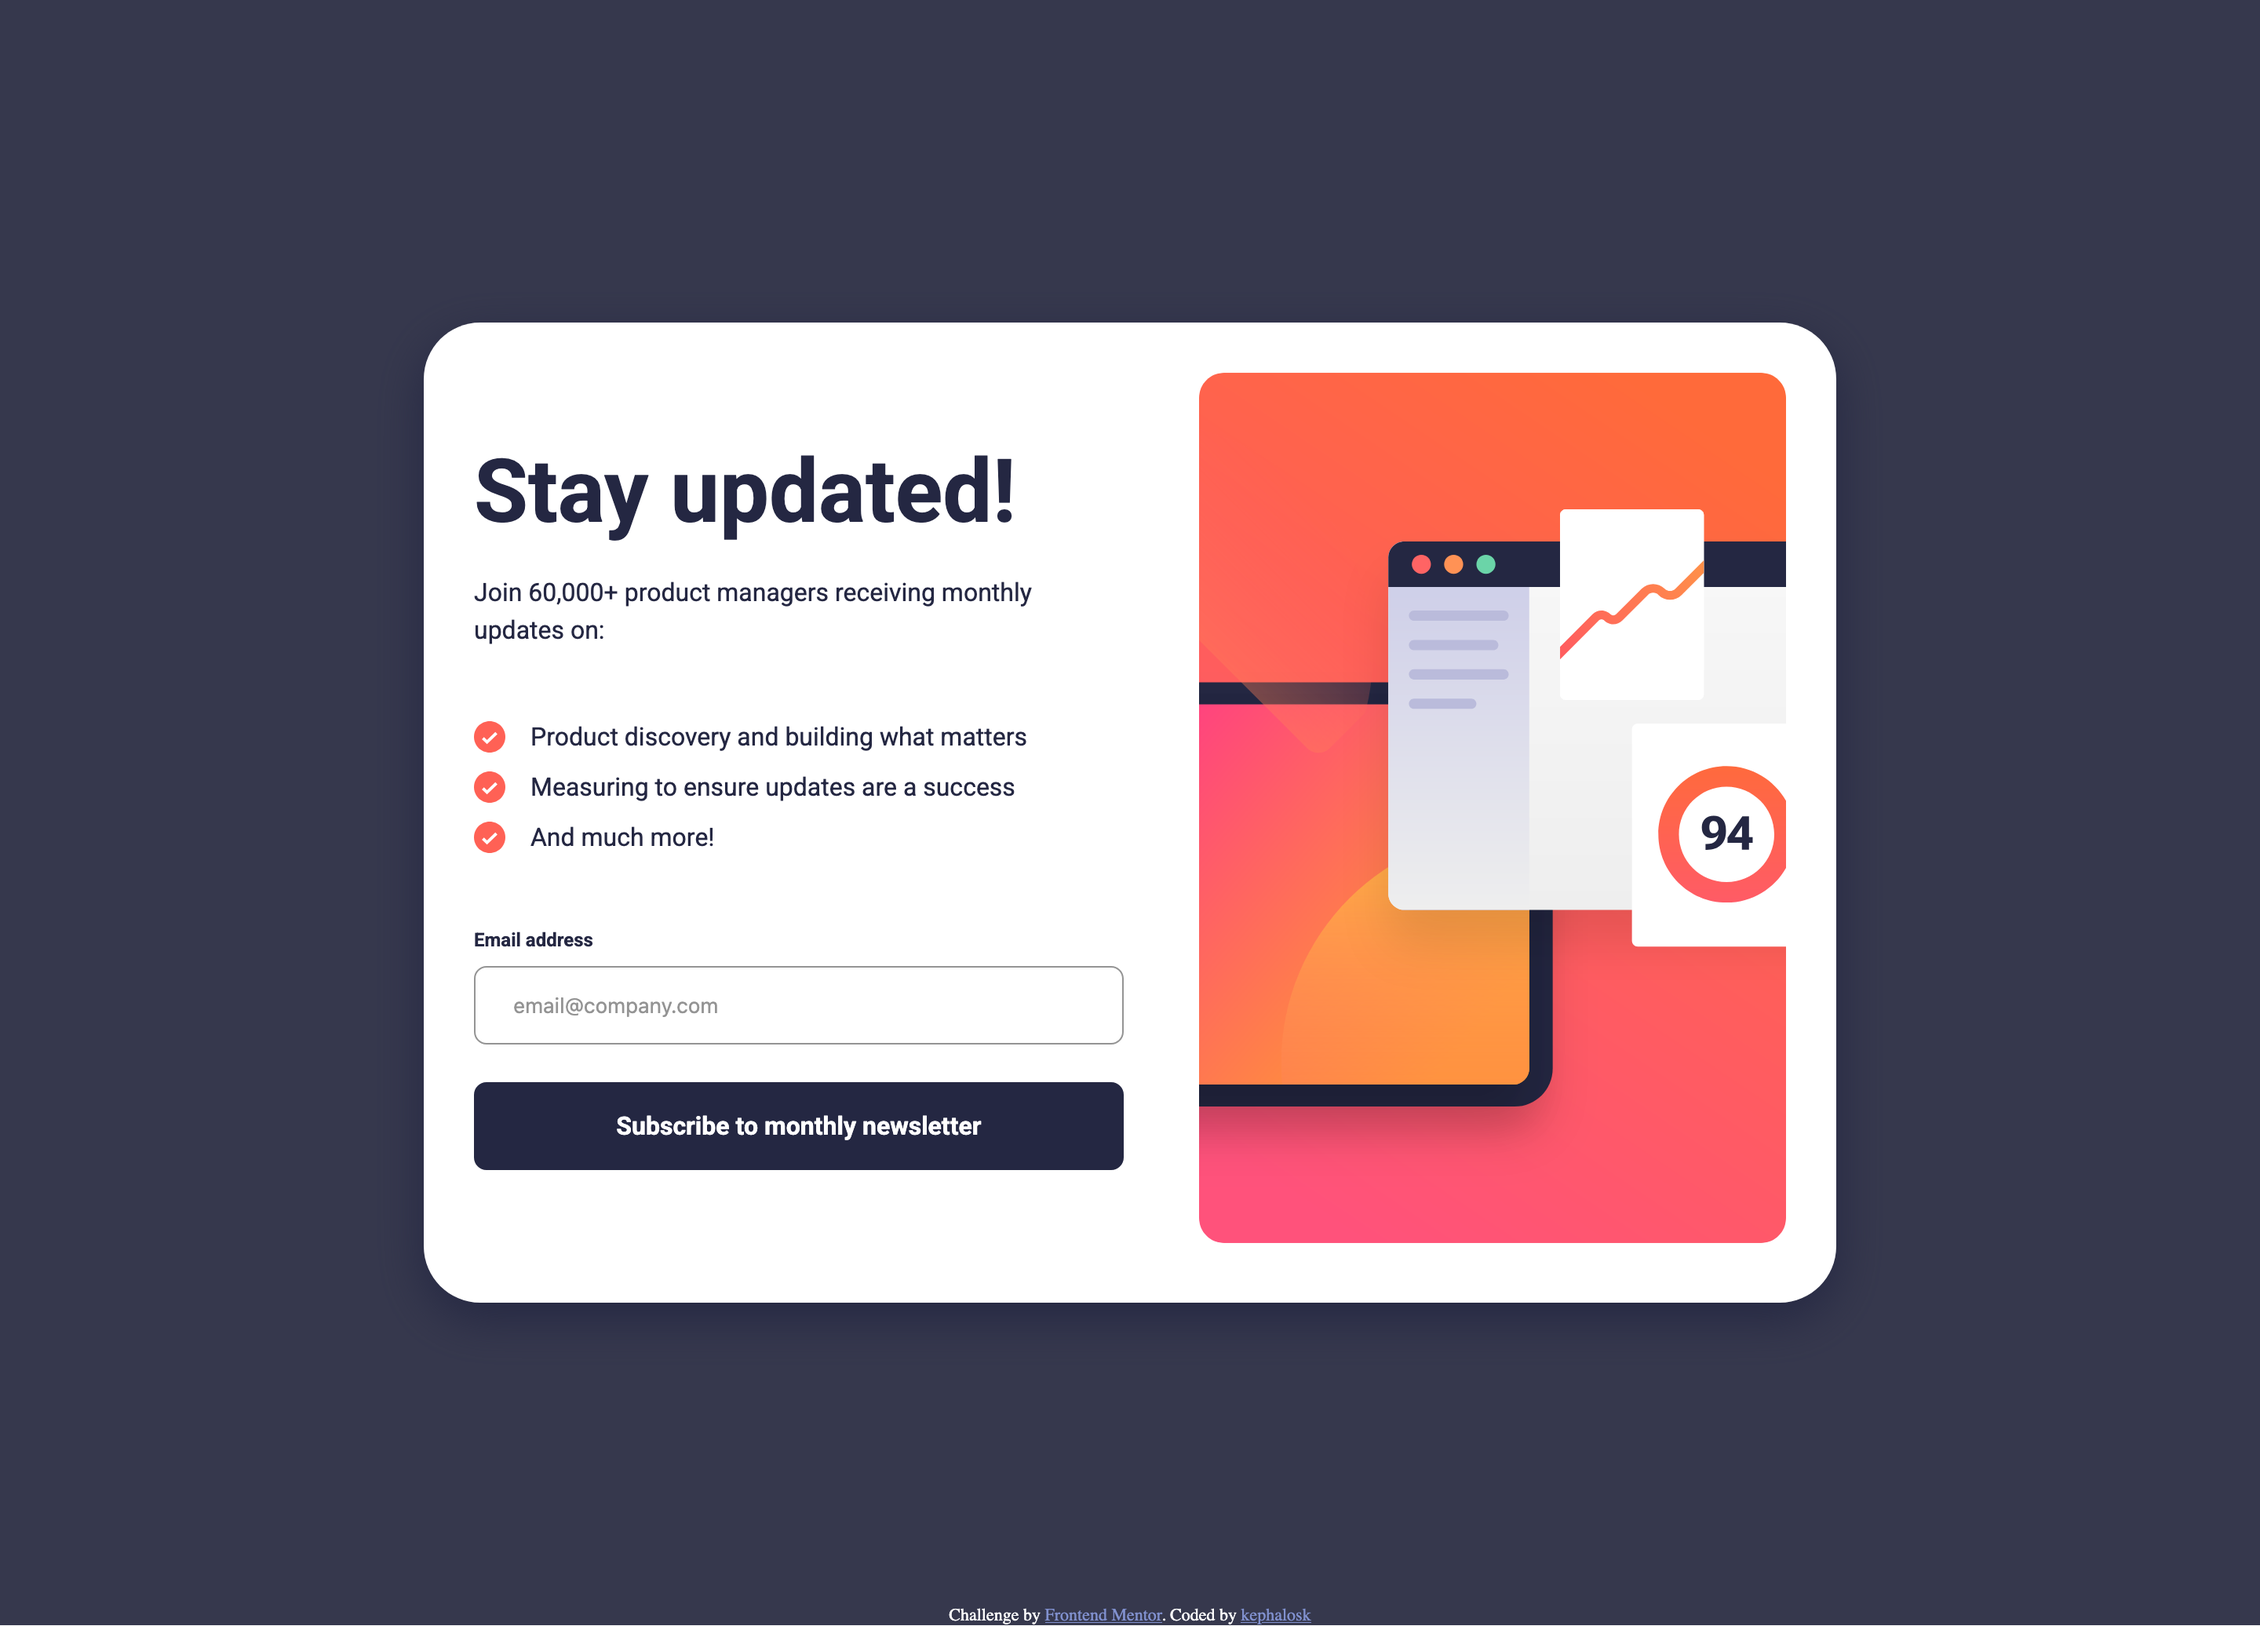
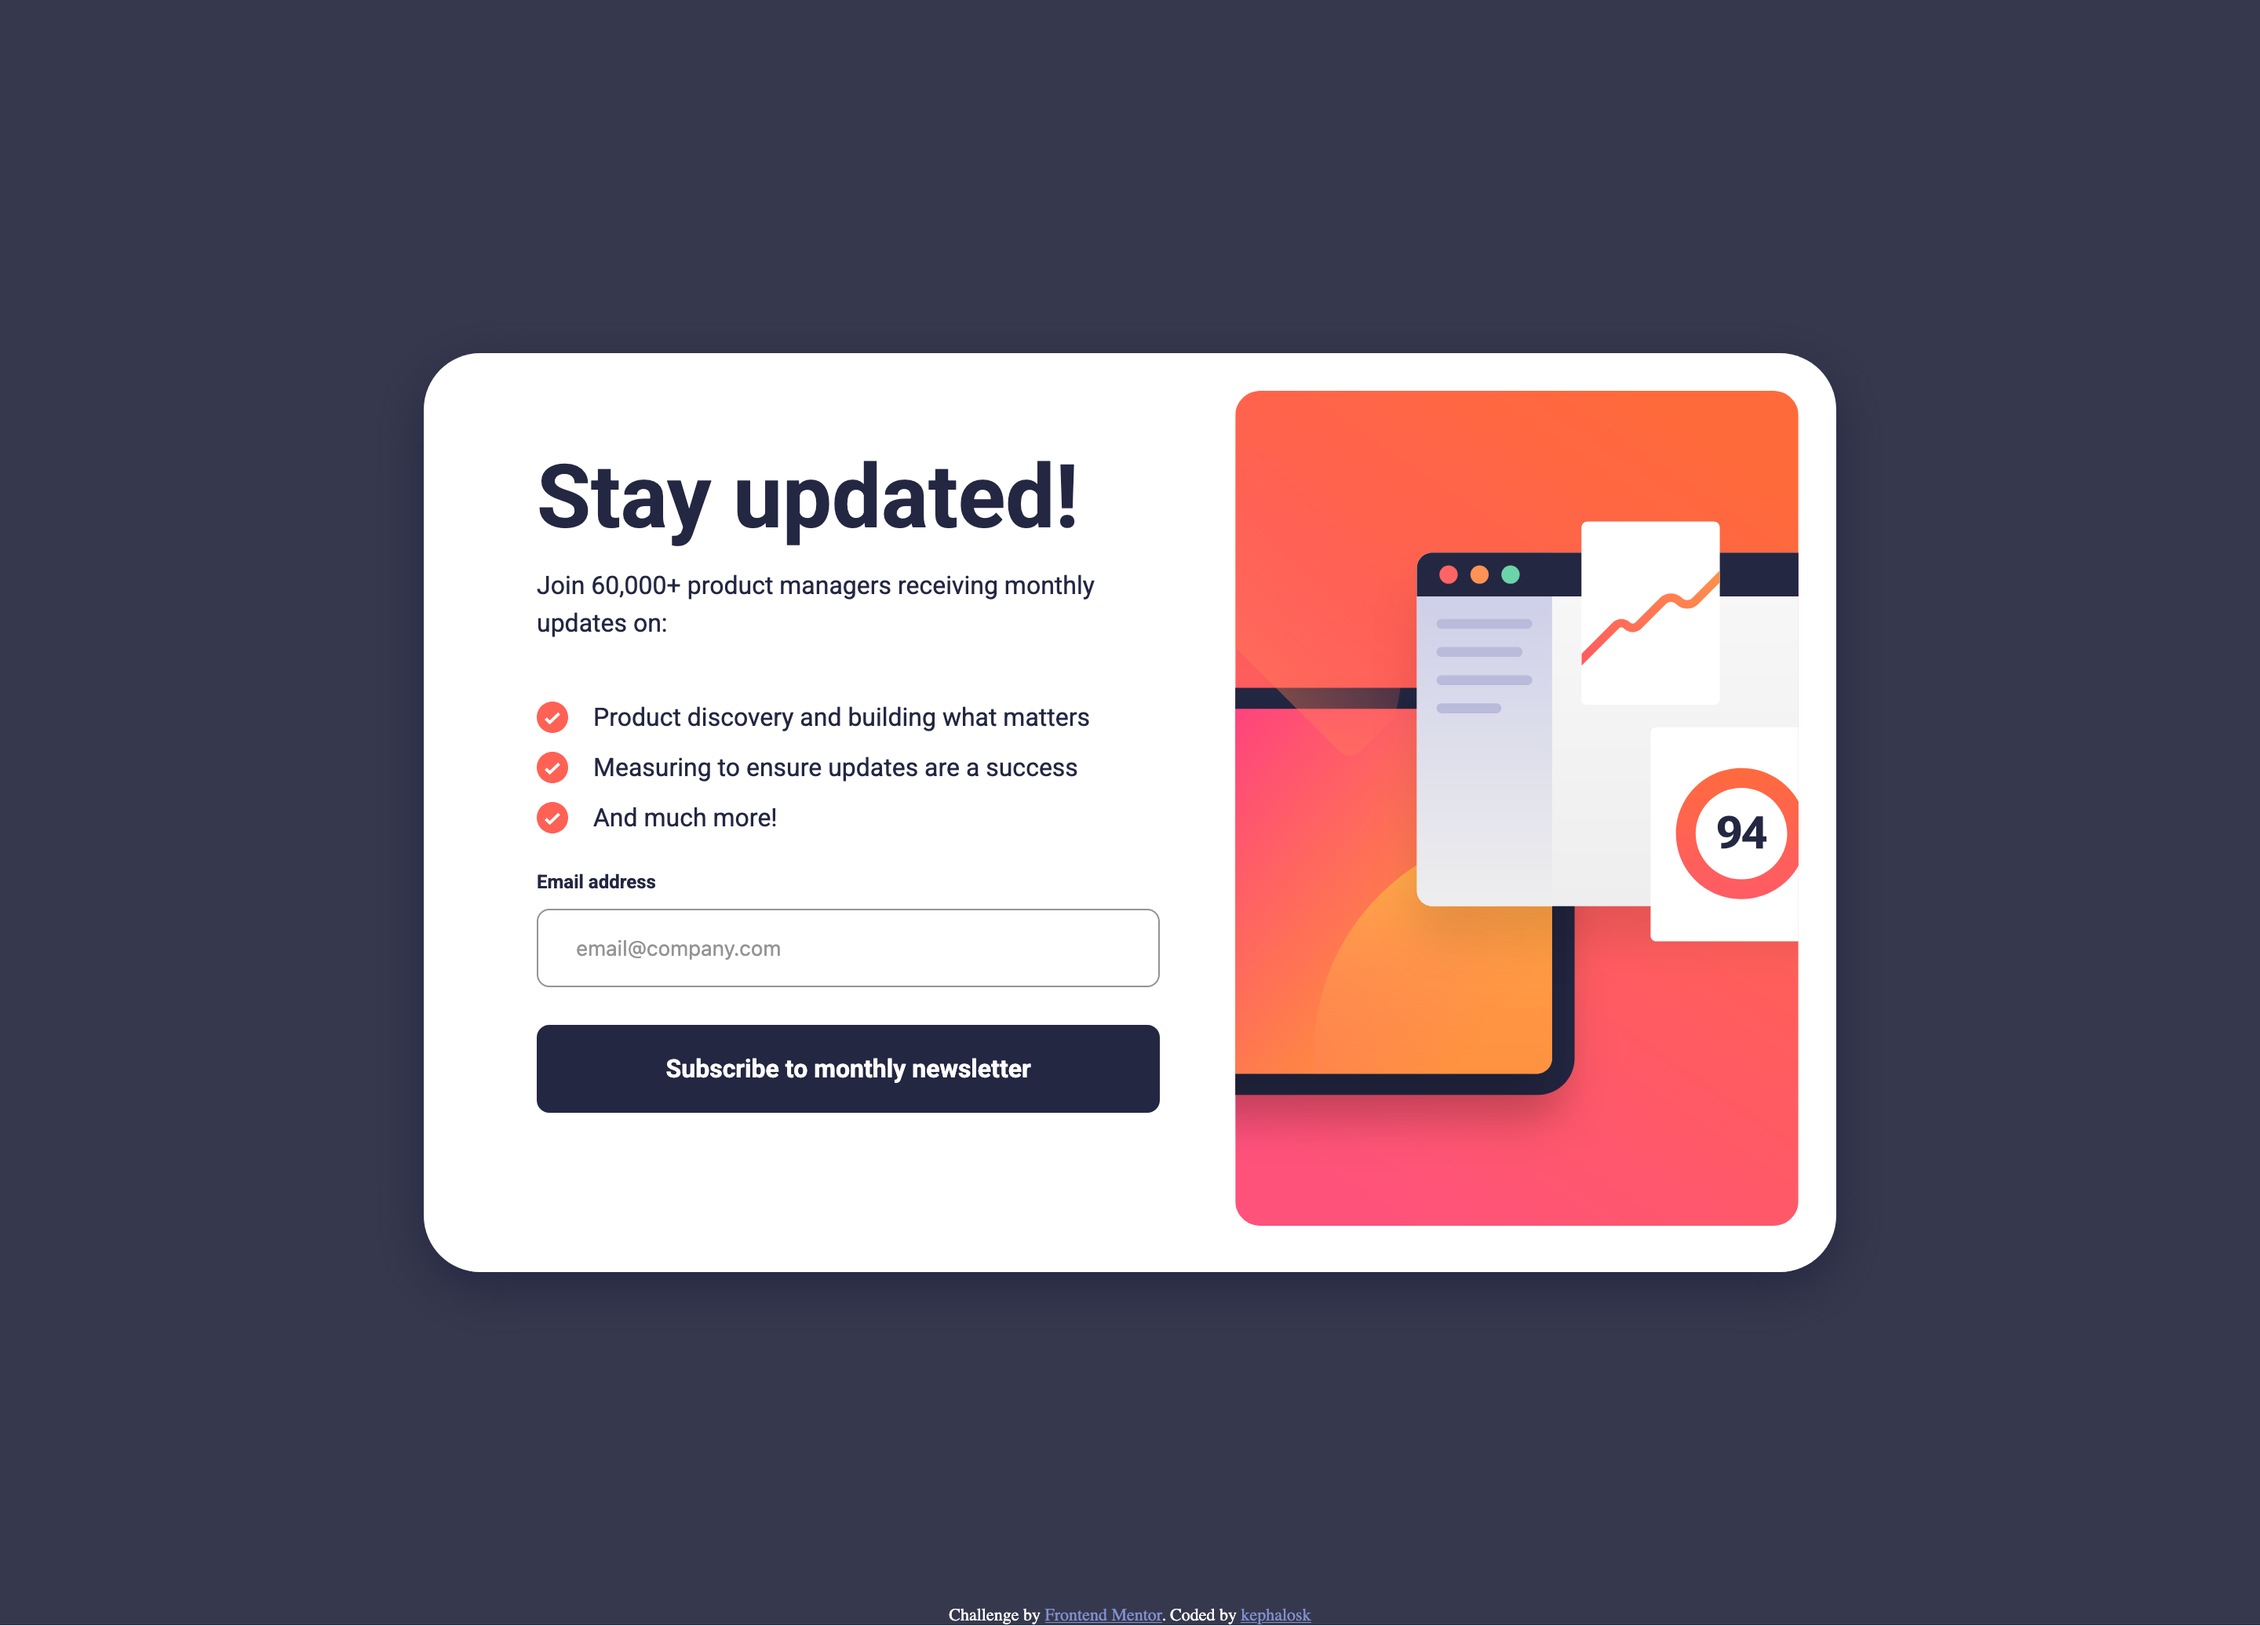
polish layout

Changed region(s): [[0.1875, 0.1853, 0.8125, 0.8031], [0.1875, 0.278, 0.5, 0.4015]]

diff --git a/components/Input.css b/components/Input.css
@@ -1,262 +1,3 @@
-* {
-  box-sizing: border-box;
-}
-
-#app {
-  height: 100%;
-  width: 100%;
-  display: flex;
-  flex-direction: column;
-  align-items: center;
-  justify-content: center;
-}
-@media (min-width: 37.5rem) {
-  #app {
-    padding: 4.5rem;
-  }
-}
-
-#attribution {
-  font-size: 11px;
-  text-align: center;
-  color: #FFFFFF;
-  position: fixed;
-  bottom: 0;
-  z-index: 2;
-}
-
-#attribution a {
-  color: hsl(228, 45%, 66%);
-}
-
-body {
-  margin: 0;
-  background-color: #36384D;
-  height: 100vh;
-  display: flex;
-  flex-direction: column;
-  justify-content: center;
-  align-items: center;
-}
-
-#card {
-  background-color: #FFFFFF;
-  height: 100%;
-  max-width: 600px;
-  width: 100%;
-  display: none;
-  flex-direction: column;
-}
-@media (min-width: 37.5rem) {
-  #card {
-    box-shadow: 0 10px 30px 0 #242742;
-    border-radius: 2.25rem;
-    padding: 2rem;
-    height: fit-content;
-  }
-}
-@media (min-width: 60rem) {
-  #card {
-    max-width: 900px;
-    flex-direction: row-reverse;
-  }
-}
-#card.active {
-  display: flex;
-}
-
-#cardContent {
-  padding: 2.5rem 1.5rem;
-  display: flex;
-  flex-direction: column;
-  row-gap: 1.5rem;
-}
-@media (min-width: 37.5rem) {
-  #cardContent {
-    padding: 2.5rem 0 0 0;
-  }
-}
-@media (min-width: 60rem) {
-  #cardContent {
-    padding: 3rem 3rem 0 0;
-  }
-}
-
-#cardContentForm {
-  display: flex;
-  flex-direction: column;
-  row-gap: 1.5rem;
-}
-
-.cardContentFormButton {
-  border: 0;
-  border-radius: 8px;
-  background-color: #242742;
-  padding: 1rem;
-  color: #FFFFFF;
-  outline: none;
-  cursor: pointer;
-  transition: background-image 0.5s ease-out;
-  font-family: Roboto, sans-serif;
-  font-weight: 700;
-  font-size: 16px;
-  line-height: 150%;
-  letter-spacing: 0;
-}
-.cardContentFormButton:hover, .cardContentFormButton:focus-visible {
-  background-image: linear-gradient(to right, #FF6A3A, #FF527B);
-}
-
-#cardContentHeader {
-  display: flex;
-  flex-direction: column;
-  row-gap: 1.5rem;
-}
-
-#cardContentHeaderList {
-  padding: 0;
-  list-style: none;
-  display: flex;
-  flex-direction: column;
-  justify-content: space-between;
-}
-
-.cardContentHeaderListItem {
-  display: flex;
-  flex-direction: row;
-  align-items: start;
-  color: #242742;
-  font-family: Roboto, sans-serif;
-  font-weight: 400;
-  font-size: 16px;
-  line-height: 150%;
-  letter-spacing: 0;
-}
-@media (min-width: 37.5rem) {
-  .cardContentHeaderListItem {
-    align-items: center;
-  }
-}
-
-.cardContentHeaderListItem img {
-  margin-right: 1rem;
-  width: 20px;
-  height: 20px;
-}
-
-.cardContentHeaderListItemText {
-  display: block;
-}
-@media (min-width: 37.5rem) {
-  .cardContentHeaderListItemText {
-    line-height: 200%;
-  }
-}
-
-#cardContentHeaderText {
-  color: #242742;
-  font-family: Roboto, sans-serif;
-  font-weight: 400;
-  font-size: 16px;
-  line-height: 150%;
-  letter-spacing: 0;
-}
-
-#cardContentHeaderTitle {
-  color: #242742;
-  font-family: Roboto, sans-serif;
-  font-weight: 700;
-  font-size: 40px;
-  line-height: 100%;
-  letter-spacing: 0;
-}
-@media (min-width: 37.5rem) {
-  #cardContentHeaderTitle {
-    font-size: 56px;
-  }
-}
-
-#cardImage {
-  border-radius: 0 0 1rem 1rem;
-  width: 100%;
-}
-@media (min-width: 37.5rem) {
-  #cardImage {
-    border-radius: 1rem;
-  }
-}
-
-#cardSuccess {
-  background-color: #FFFFFF;
-  padding: 12.125rem 1.5rem 4rem 1.5rem;
-  height: 100vh;
-  width: 100%;
-  display: none;
-  flex-direction: column;
-  row-gap: 2rem;
-}
-@media (min-width: 37.5rem) {
-  #cardSuccess {
-    box-shadow: 0 10px 30px 0 #242742;
-    border-radius: 2.25rem;
-    padding: 3rem;
-    height: fit-content;
-    max-width: 500px;
-  }
-}
-#cardSuccess.active {
-  display: flex;
-}
-
-#cardSuccessContent {
-  height: 100%;
-  display: flex;
-  flex-direction: column;
-  justify-content: space-around;
-  row-gap: 1.5rem;
-}
-
-#cardSuccessContentImage {
-  height: 64px;
-  width: 64px;
-}
-
-#cardSuccessContentText {
-  flex-grow: 1;
-  color: #242742;
-  font-family: Roboto, sans-serif;
-  font-weight: 400;
-  font-size: 16px;
-  line-height: 150%;
-  letter-spacing: 0;
-}
-
-#cardSuccessContentTextEmail {
-  font-family: Roboto, sans-serif;
-  font-weight: 700;
-  font-size: 16px;
-  line-height: 150%;
-  letter-spacing: 0;
-}
-
-#cardSuccessContentTitle {
-  color: #242742;
-  font-family: Roboto, sans-serif;
-  font-weight: 700;
-  font-size: 40px;
-  line-height: 100%;
-  letter-spacing: 0;
-}
-@media (min-width: 37.5rem) {
-  #cardSuccessContentTitle {
-    font-size: 56px;
-  }
-}
-
-h1, h2, p {
-  margin: 0;
-}
-
 .input {
   display: flex;
   flex-direction: column;

diff --git a/styles/styles.scss b/styles/styles.scss
@@ -25,7 +25,7 @@ $radius-16px: functions.to-rem(16px);
 $radius-36px: functions.to-rem(36px);
 
 $phone-width: functions.to-rem(600px);
-$desktop-width: functions.to-rem(960px);
+$tablet-width: functions.to-rem(960px);
 
 @mixin tablet-and-up {
   @media (min-width: $phone-width) {
@@ -34,7 +34,7 @@ $desktop-width: functions.to-rem(960px);
 }
 
 @mixin desktop-and-up {
-  @media (min-width: $desktop-width) {
+  @media (min-width: $tablet-width) {
     @content
   }
 }
@@ -131,6 +131,7 @@ body {
   }
 
   @include desktop-and-up {
+    padding: $space-24px;
     max-width: 900px;
     flex-direction: row-reverse;
   }
@@ -151,7 +152,8 @@ body {
   }
 
   @include desktop-and-up {
-    padding: $space-48px $space-48px 0 0;
+    padding: $space-40px $space-48px 0 $space-48px;
+    row-gap: 0;
   }
 }
 
@@ -182,6 +184,10 @@ body {
   display: flex;
   flex-direction: column;
   row-gap: $space-24px;
+
+  @include desktop-and-up {
+    row-gap: $space-16px;
+  }
 }
 
 #cardContentHeaderList {

diff --git a/styles/styles.css b/styles/styles.css
@@ -57,6 +57,7 @@ body {
 }
 @media (min-width: 60rem) {
   #card {
+    padding: 1.5rem;
     max-width: 900px;
     flex-direction: row-reverse;
   }
@@ -78,7 +79,8 @@ body {
 }
 @media (min-width: 60rem) {
   #cardContent {
-    padding: 3rem 3rem 0 0;
+    padding: 2.5rem 3rem 0 3rem;
+    row-gap: 0;
   }
 }
 
@@ -111,6 +113,11 @@ body {
   display: flex;
   flex-direction: column;
   row-gap: 1.5rem;
+}
+@media (min-width: 60rem) {
+  #cardContentHeader {
+    row-gap: 1rem;
+  }
 }
 
 #cardContentHeaderList {
